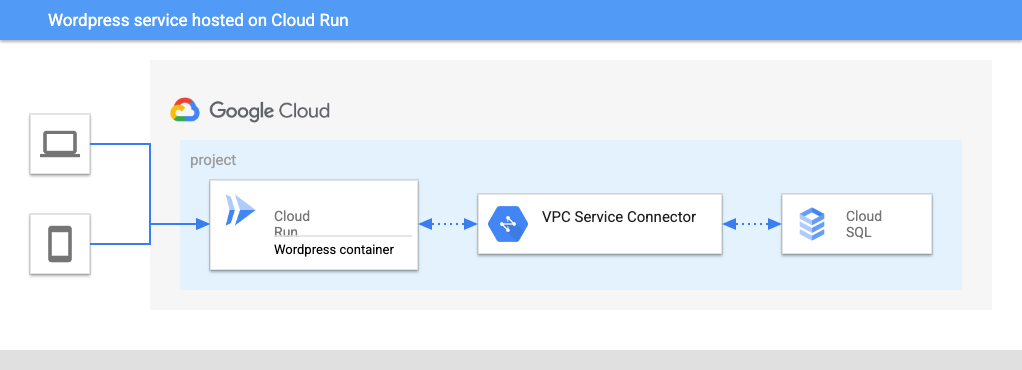
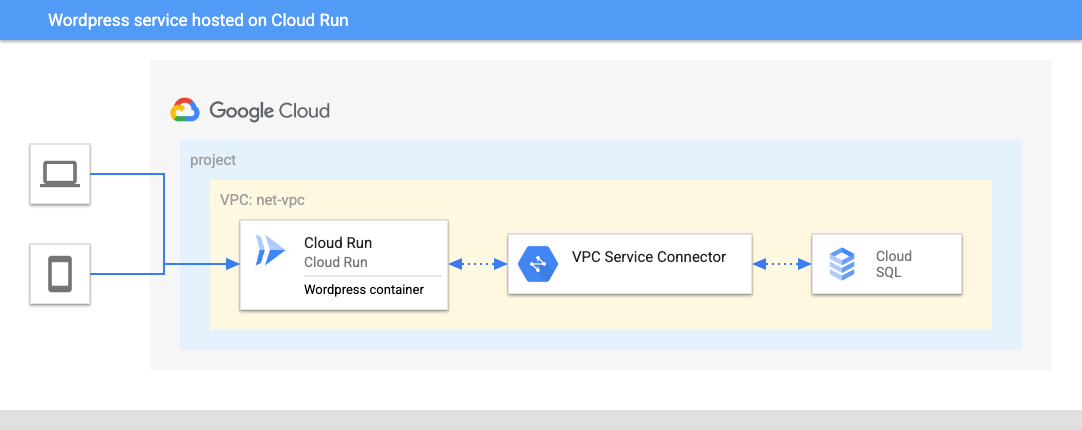
Changes to README, vars samples and architecture diagram

diff --git a/examples/third-party-solutions/wordpress/cloudrun/README.md b/examples/third-party-solutions/wordpress/cloudrun/README.md
@@ -37,7 +37,7 @@ Click on the image below, sign in if required and when the prompt appears, click
 
 [<p align="center"> <img alt="Open Cloudshell" width = "300px" src="images/button.png" /> </p>]()
 
-LINK NEEDED
+LINK NEEDED --> can only be added after PR
 
 Before we deploy the architecture, you will at least need the following information (for more precise configuration see the Variables section):
 
@@ -48,18 +48,25 @@ Before we deploy the architecture, you will at least need the following informat
 
 In order to deploy the Wordpress service to Cloud Run, you need to store the [Wordpress image](https://hub.docker.com/r/bitnami/wordpress/) in Google Cloud Registry (GCR).
 
-Make sure that the GCR API is enabled and run the following commands in your Cloud Shell environment with your `project_id` in place of the `MY_PROJECT` placeholder:
+Make sure that the Google Container Registry API is enabled and run the following commands in your Cloud Shell environment with your `project_id` in place of the `MY_PROJECT` placeholder:
 
 ``` {shell}
 docker pull bitnami/wordpress
-docker tag bitnami/wordpress gcr.io/MY_PROJECT/busybox
+```
+
+```{shell}
+docker tag bitnami/wordpress gcr.io/MY_PROJECT/wordpress
+```
+```{shell
+
 docker push gcr.io/MY_PROJECT/wordpress
 ```
 
+** Important : please note this example architecture is built for this particular bitnami image, if you decide to use another one this example might not work.**
 
 #### Step 2: Deploy resources
 
-Once you have the required information, head back to the Cloud Shell editor. Make sure you’re in the following directory: `cloudshell_open/cloud-foundation-fabric/examples/third-party-solutions/wordpress/cloudrun/`.
+Once you have the required information, head back to the Cloud Shell editor. Make sure you’re in the directory of this tutorial (where this README is in).
 
 Configure the Terraform variables in your terraform.tfvars file. See [terraform.tfvars.sample](terraform.tfvars.sample) as starting point - just copy it to `terraform.tfvars` and edit the latter.
 
@@ -69,7 +76,6 @@ Initialize your Terraform environment and deploy the resources:
 terraform init
 terraform apply
 ```
-
 The resource creation will take a few minutes.
 
 Upon completion, you will see the output with the values for the Cloud Run service and the user and password to access the `/admin` part of the website. You can also view it later with:
@@ -85,7 +91,7 @@ terraform output cloud_run_service
 The easiest way to remove all the deployed resources is to run the following command in Cloud Shell:
 
 ``` {shell}
-tf destroy
+terraform destroy
 ```
 
 The above command will delete the associated resources so there will be no billable charges made afterwards.
